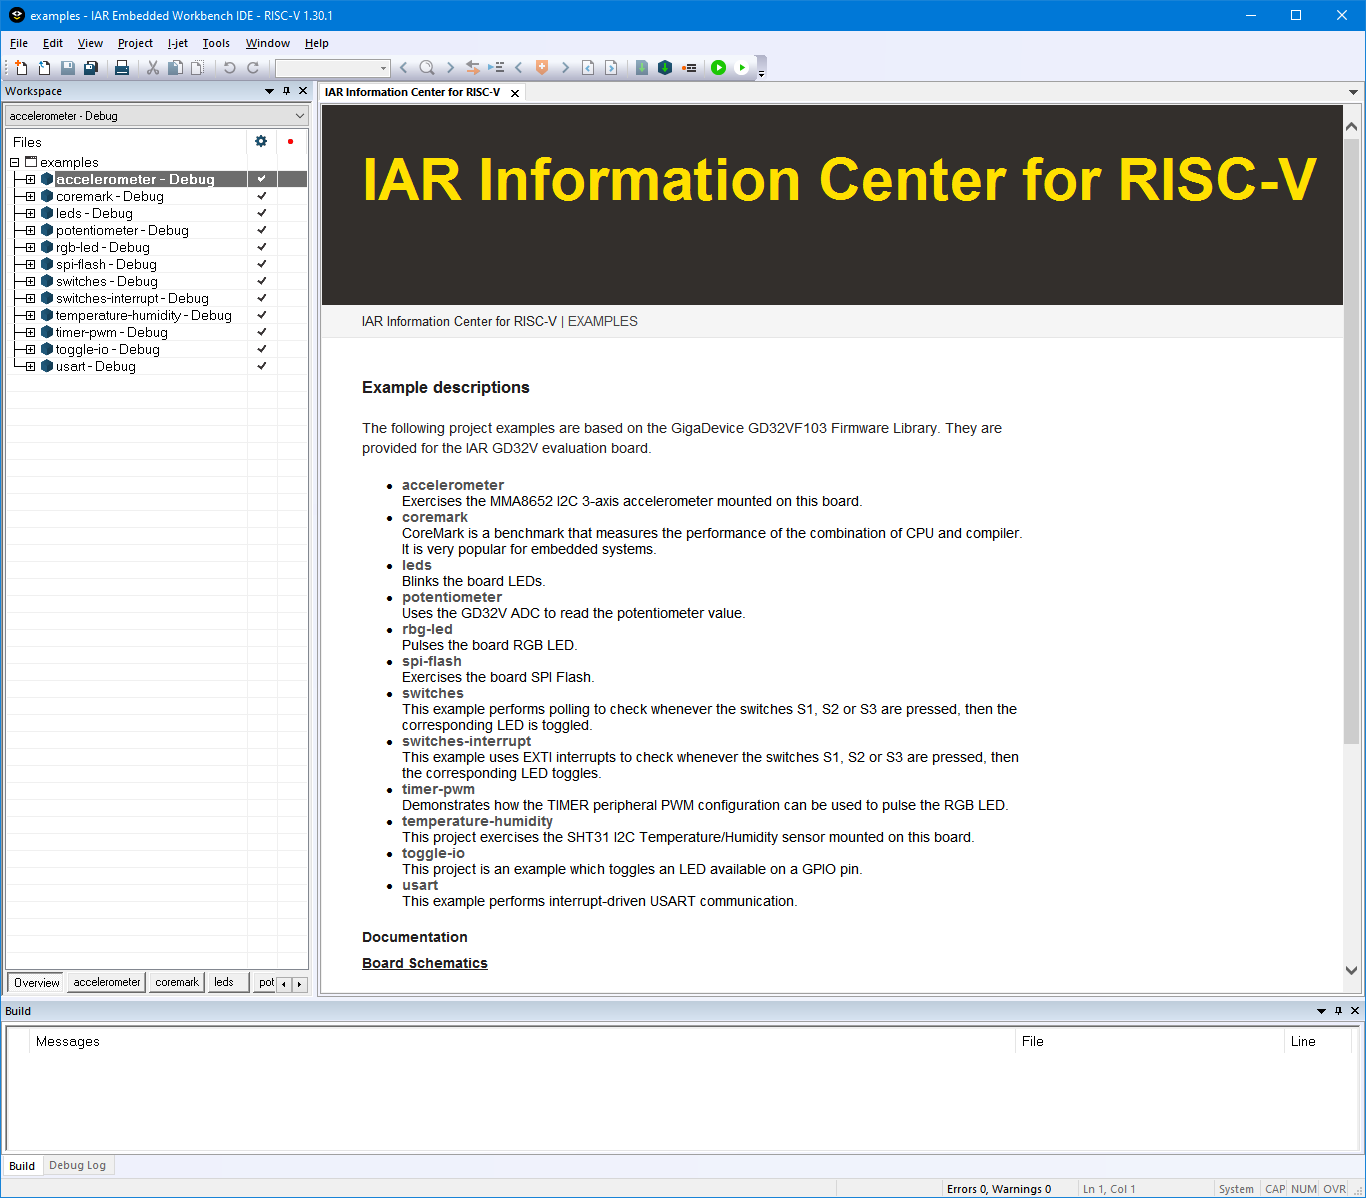
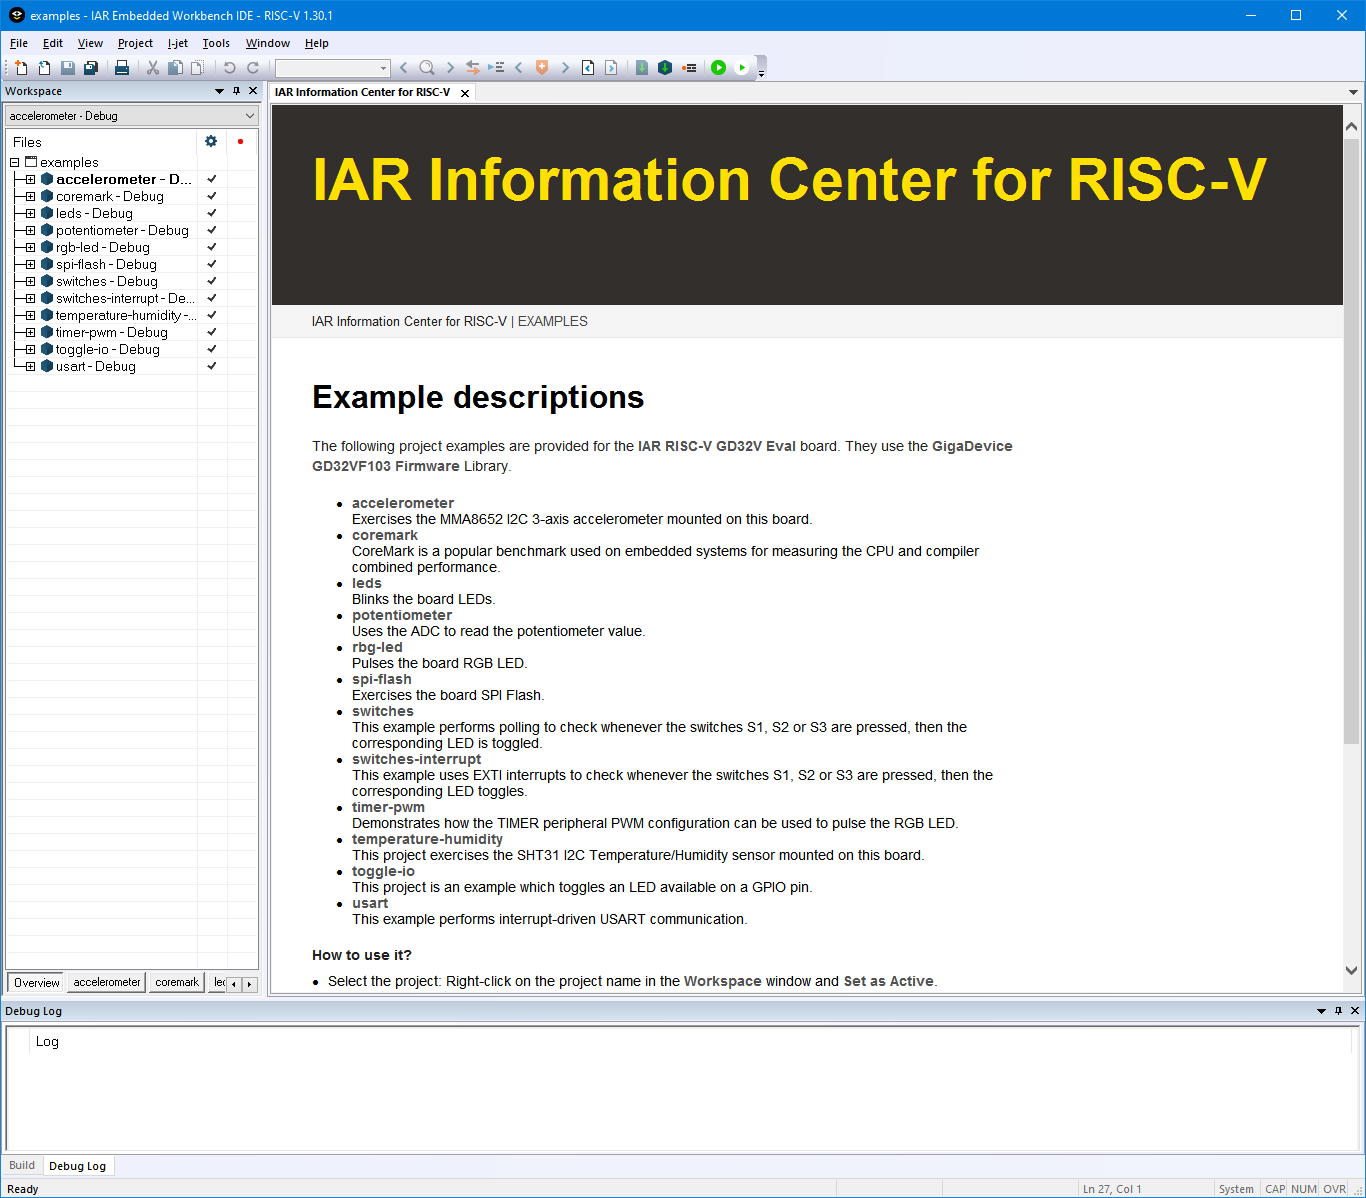
Updated conventions

diff --git a/contributions/template/ewinfo.ENU.html b/contributions/template/ewinfo.ENU.html
@@ -17,37 +17,35 @@
         </div>
   <div class="breadcrumb"><a href="$TOOLKIT_DIR$/doc/infocenter/index.ENU.html">IAR Information Center for RISC-V</a> | EXAMPLES</div>
   <div class="mainblock">
-  <h2>Example description</h2> 
-   <pre>  <!--Insert readme.txt-->
-   <span style="font-family: monospace;">
+  <h1>Template description</h1> 
 
-  <li><u>Introduction</u></li>
+  <h3>Introduction</h3>
 
-  This project provides a clean slate as a shortcut for starting new projects with the IAR RISC-V GD32V Eval board and the IAR Embedded Workbench for RISC-V.
+  <p>This template project provides a clean slate for starting new projects with the <b>IAR RISC-V GD32V Eval</b> board on the <b>IAR Embedded Workbench for RISC-V</b>.
 
-  This template can be used for quickly creating new projects using the GD32VF103 Firmware Library as well as for contributing with new projects on the contributions folder in the official repository.
-
-  Visit <a href="https://github.com/IARSystems/iar-risc-v-gd32v-eval/tree/master/contributions">https://github.com/IARSystems/iar-risc-v-gd32v-eval/tree/master/contributions</a> if you would like to know more.
-
-  <li><u>Details of the Template</u></li>
-
-  - It provides GD32VF103 MCU system clock setup to 108 MHz.
-
-  - All the drivers from the GD32VF103 Firmware Library are included by default.
-
-  - All the BSP drivers for the IAR RISC-V GD32V Eval board are included by default.
+  <p>It can be used for quickly creating new projects using the <b>GD32VF103 Firmware Library</b>.</p>
   
-  <li><u>How to use it ?</u></li>
+  <p>It also can be used for contributing with new projects on the contributions folder in the board's repository. Visit <a href="https://github.com/IARSystems/iar-risc-v-gd32v-eval/tree/master/contributions">https://github.com/IARSystems/iar-risc-v-gd32v-eval/tree/master/contributions</a> if you would like to know more.</p>
 
-  In order to make the program work, you must do the following :
-  - Rebuild all files and load your image into target memory
-  - Run the example
+  <h3>Details of the Template</h3>
+
+  <li>It provides GD32VF103 MCU system clock setup to 108 MHz.</li>
+
+  <li>All the drivers from the <b>GD32VF103 Firmware Library</b> are included by default.</li>
+
+  <li>All the BSP drivers for the <b>IAR RISC-V GD32V Eval</b> board are included by default.</li>
+  
+  <h3>How to use it?</h3>
+
+  <li>Rebuild the project: Project / Rebuild All.</li>
+  <li>Flash the ELF image into the target's memory and start debugging: Project / Download and Debug (<b>CTRL+D</b>).</li>
+  <li>Run the project: Debug / Go (<b>F5</b>).</li>
+  <li>Terminate the C-SPY debugging session: Debug / Stop Debugging (<b>CTRL+SHIFT+D</b>).</li>
+  <li>Develop the desired firmware application.</li>
   
   <h3>Documentation</h3>
-  <br\><b><a href="$CUR_DIR$/../../docs/iar-risc-v-gd32v-evaluation-board-schematics-rev3c.pdf">Board Schematics</a></b>
+  <li><a href="$CUR_DIR$/../../docs/iar-risc-v-gd32v-evaluation-board-schematics-rev3c.pdf">IAR RISC-V GD32V Eval board Schematics</a></li>
   
-  </span>
-  </pre> 
   </div>
   </body>
 </html>

diff --git a/Examples/ewinfo.ENU.html b/Examples/ewinfo.ENU.html
@@ -17,9 +17,9 @@
         </div>
   <div class="breadcrumb"><a href="$TOOLKIT_DIR$/doc/infocenter/index.ENU.html">IAR Information Center for RISC-V</a> | EXAMPLES</div>
   <div class="mainblock">
-    <h2>Example descriptions</h2>
+    <h1>Example descriptions</h1>
 
-    <p>The following project examples use the GigaDevice GD32VF103 Firmware Library. They are provided for the IAR RISC-V GD32V Eval board.</p>
+    <p>The following project examples are provided for the <b>IAR RISC-V GD32V Eval</b> board. They use the <b>GigaDevice GD32VF103 Firmware</b> Library.</p>  
 
     <ul>
       <li><strong>accelerometer</strong><br>
@@ -27,8 +27,7 @@
       </li>
 
       <li><strong>coremark</strong><br>
-      CoreMark is a benchmark that measures the performance of the combination of CPU and compiler. It is very popular for embedded systems.
-      </li>   
+      CoreMark is a popular benchmark used on embedded systems for measuring the CPU and compiler combined performance.</li>   
 
       <li><strong>leds</strong><br>
       Blinks the board LEDs.
@@ -70,9 +69,17 @@
       This example performs interrupt-driven USART communication. 
       </li>   
     </ul>
+
+    <h3>How to use it?</h3>
+    
+    <li>Select the project: Right-click on the project name in the <b>Workspace</b> window and <b>Set as Active</b>.</li>
+    <li>Rebuild the project: Project / Rebuild All.</li>
+    <li>Flash the ELF image into the target's memory and start debugging: Project / Download and Debug (<b>CTRL+D</b>)</li>
+    <li>Run the project: Debug / Go (<b>F5</b>).</li>
+    <li>Terminate the C-SPY debugging session: Debug / Stop Debugging (<b>CTRL+SHIFT+D</b>).</li>
     
     <h3>Documentation</h3>
-    <br\><b><a href="$CUR_DIR$/../../docs/iar-risc-v-gd32v-evaluation-board-schematics-rev3c.pdf">Board Schematics</a></b>
+    <li><a href="$CUR_DIR$/../../docs/iar-risc-v-gd32v-evaluation-board-schematics-rev3c.pdf">IAR RISC-V GD32V Eval board Schematics</a></li>
     
   </div>
   </body>

diff --git a/docs/getting-started.md b/docs/getting-started.md
@@ -46,7 +46,7 @@ This guide briefly describes how to get started using __[IAR Embedded Workbench 
 * Hi-speed USB 2.0 interface
 * Debugging interfaces: JTAG, SWD
 * Single-Wire Output (SWO) support  
-* Program the evaluation board Flash memory
+* Flash the firmware image into the MCU
 * Target can be powered from the debugging interface (up to 5V) 
 * MIPI-20 flat cable and USB micro B cable are included 
 * Fully integrated with the IAR Embedded Workbench for RISC-V (and for Arm) 
